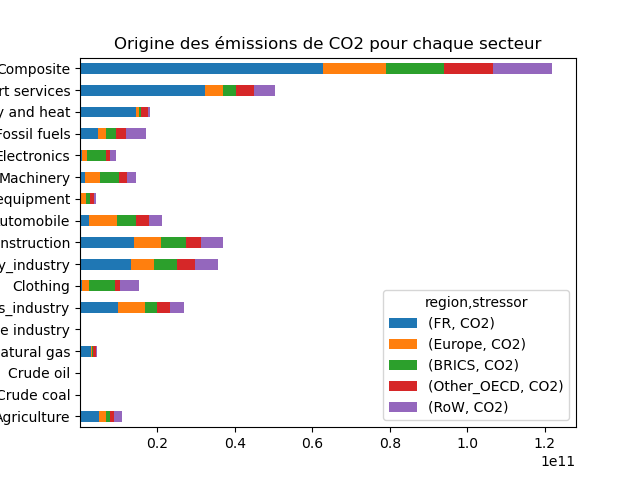
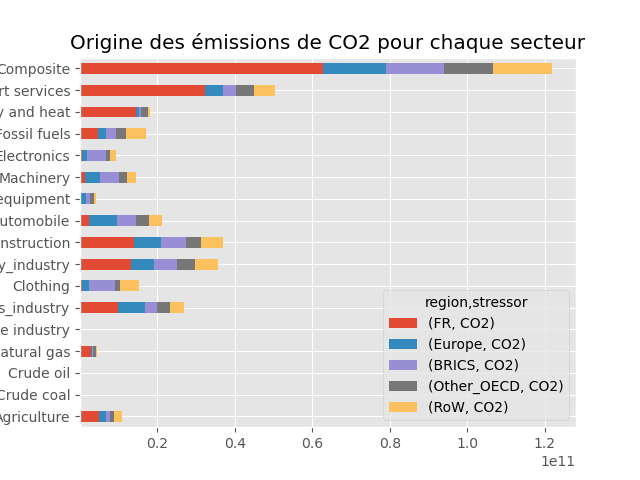
ajout figure 7 OFCE

diff --git a/main.py b/main.py
@@ -171,7 +171,7 @@ counterfactual.save_all(
 # concat results for visualisation
 ## ToDo
 #print(reference.ghg_emissions_desag.D_cba.sum(axis=0).FR) #empreinte carbone totale (peut faire si gaz en kgCO2eq)
-ghg_list = list(reference.ghg_emissions_desag.D_cba.index.get_level_values(1)[:7])
+ghg_list = list(reference.ghg_emissions_desag.D_cba.index.get_level_values(1)[:6])
 sectors_list=list(reference.get_sectors())
 reg_list = list(reference.get_regions())
 
@@ -181,17 +181,47 @@ reg_list = list(reference.get_regions())
 #        plt.savefig('figures/ref_'+ghg+'.png', dpi=300)
 #        plt.show()
 ref_dcba = reference.ghg_emissions_desag.D_cba
-print(ref_dcba)
+
 filtre_co2 = ref_dcba.index.get_level_values(1)=='CO2'
 CO2_total_by_sector = ref_dcba.iloc[filtre_co2]['FR']
 
-CO2_total_by_sector.plot.barh(stacked=True)
-plt.title("Répartition des émissions de chaque région par secteur")
-plt.savefig('figures/French_CO2_by_sector_each_region.png')
-CO2_total_by_sector.transpose().plot.barh(stacked=True)
-plt.title("Origine des émissions de CO2 pour chaque secteur")
-plt.savefig('figures/French_CO2_by_origin_each_sector.png')
+# with plt.style.context('ggplot'):
+# 	CO2_total_by_sector.plot.barh(stacked=True)
+# 	plt.title("Répartition des émissions de chaque région par secteur")
+# 	plt.savefig('figures/French_CO2_by_sector_each_region.png')
+	#plt.show()
+# with plt.style.context('ggplot'):
+# 	CO2_total_by_sector.transpose().plot.barh(stacked=True)
+# 	plt.title("Origine des émissions de CO2 pour chaque secteur")
+# 	plt.savefig('figures/French_CO2_by_origin_each_sector.png')
+# 	#plt.show()
 
+ch4toco2=72
+n20toco2=289
+sf6toco2=15100
+
+Total_ghg_desag_fr = ref_dcba['FR']
+sumonsectors = Total_ghg_desag_fr.sum(axis=1)
+#print(sumonsectors)
+sumonsectors.iloc[sumonsectors.index.get_level_values(1)=='CH4'] *= ch4toco2
+sumonsectors.iloc[sumonsectors.index.get_level_values(1)=='N2O'] *= n20toco2
+sumonsectors.iloc[sumonsectors.index.get_level_values(1)=='SF6'] *= sf6toco2
+#print(sumonsectors)
+
+total_ges_by_origin = sumonsectors.sum(level=0)
+print(total_ges_by_origin)
+liste_agg_ghg=[]
+for ghg in ghg_list:
+	liste_agg_ghg.append(sumonsectors.iloc[sumonsectors.index.get_level_values(1)==ghg].sum(level=0))
+xs = ['total']+ghg_list
+dict_pour_plot = {'Total':total_ges_by_origin,'CO2':liste_agg_ghg[0],
+'CH4':liste_agg_ghg[1],'N2O':liste_agg_ghg[2],'SF6':liste_agg_ghg[3],
+'HFC':liste_agg_ghg[4],'PFC':liste_agg_ghg[5]}
+pour_plot=pd.DataFrame(data=dict_pour_plot,index=reg_list)
+print(pour_plot)
+pour_plot.transpose().plot.bar(stacked=True)
+plt.savefig("figures/empreinte_carbone_fr_importation.png")
+plt.show()
 ###########################
 # VISUALIZE
 ###########################
